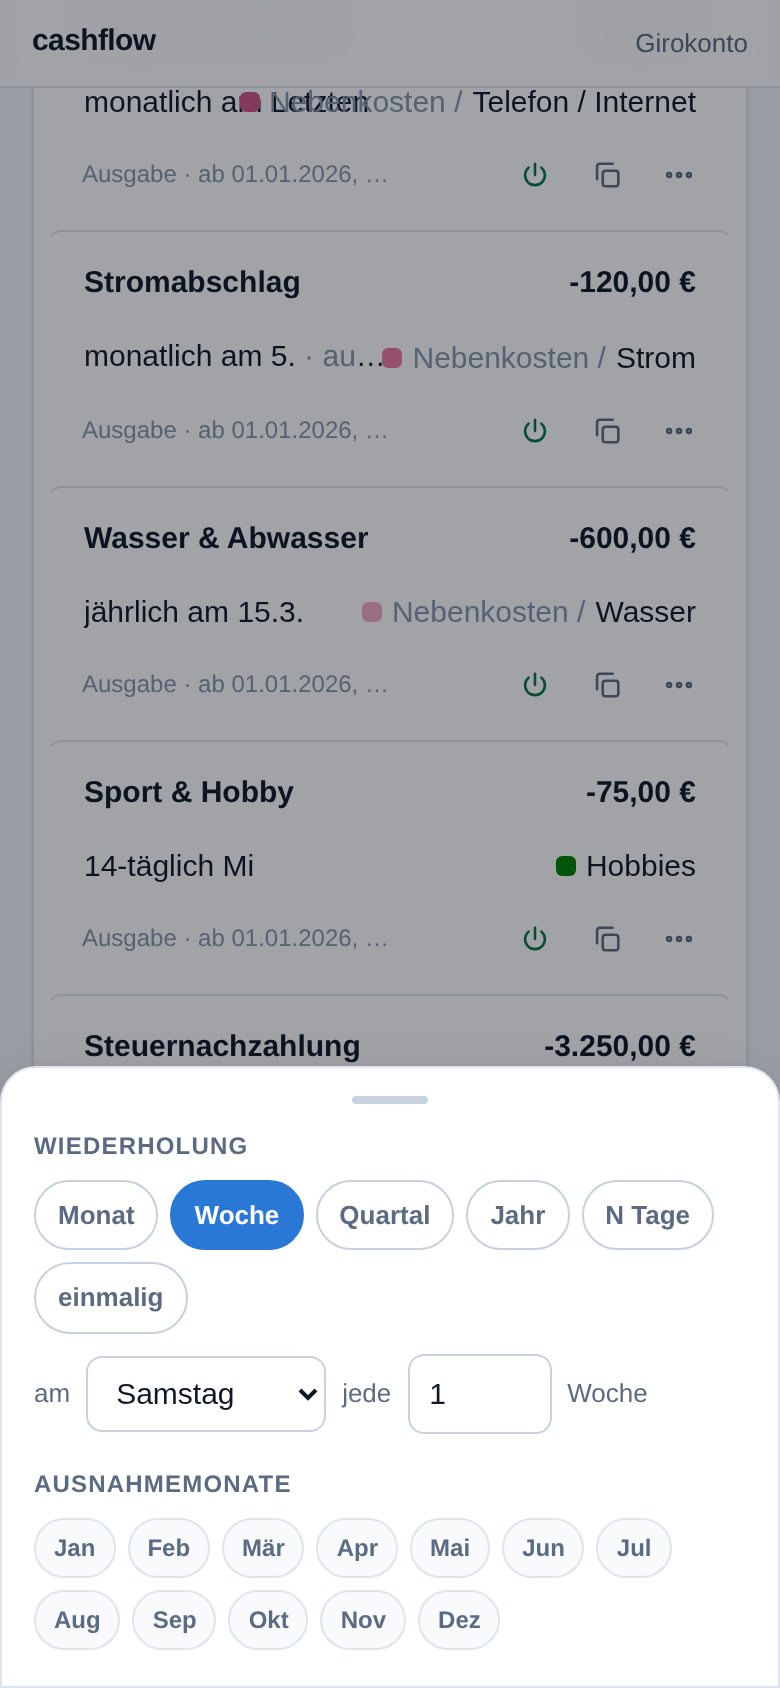
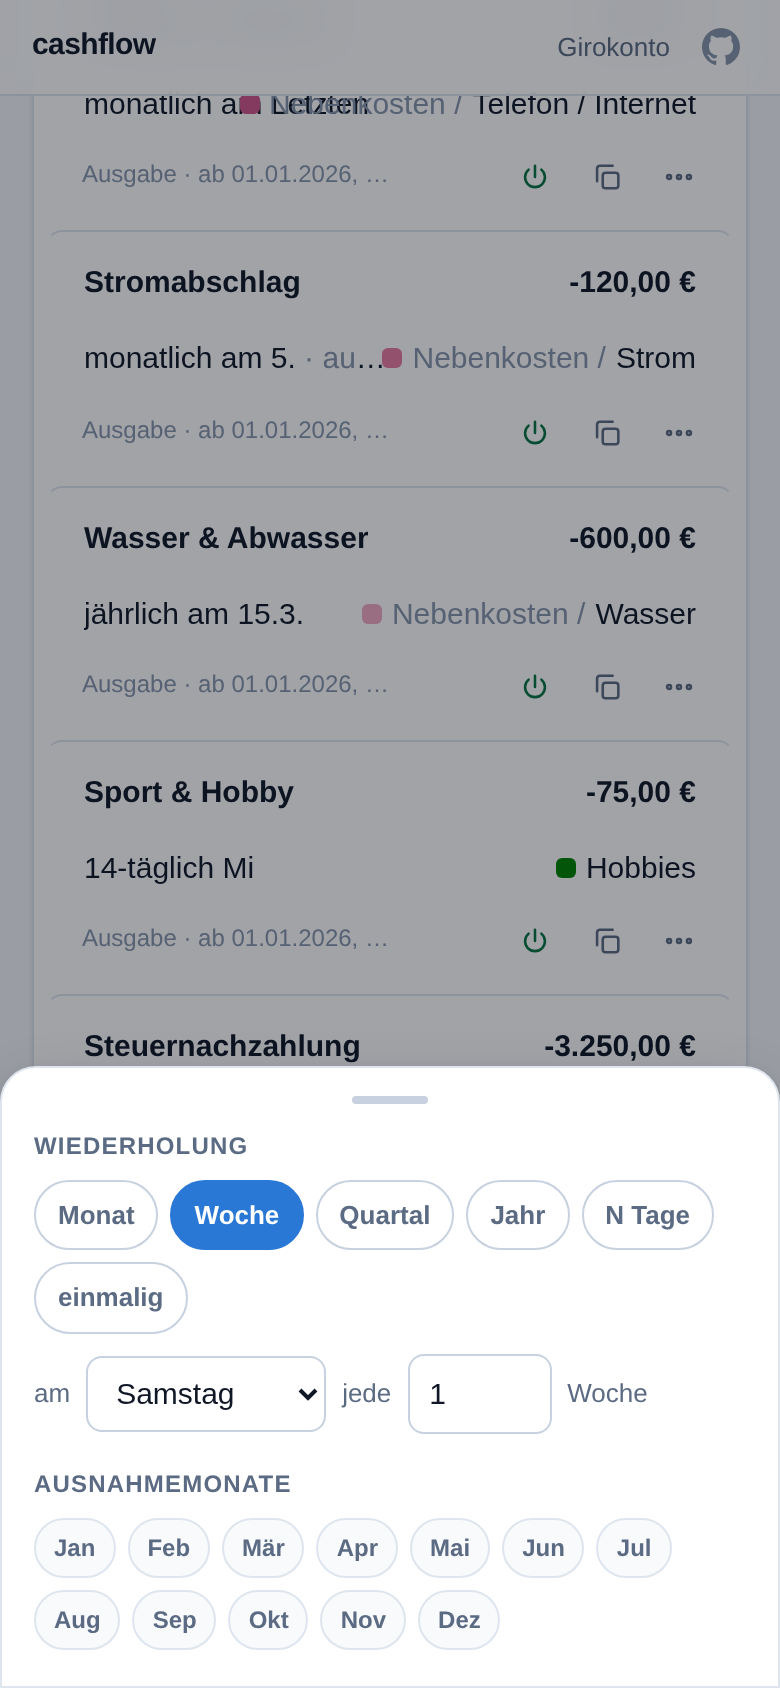
Dezenter Verweis auf den Quelltext
In der Seitenleiste unter den Kontodaten, mobil als Symbol in der
Kopfzeile — auf allen Routen erreichbar, ohne sich in den Vordergrund zu
draengen.

Im Desktop musste die Regel auf `.sidebar a.repo-link` gehoben werden:
`.sidebar a svg` ist spezifischer als `.repo-link svg`, wodurch der
Verweis zunaechst wie ein Navigationspunkt aussah.

Bildschirmfotos neu erzeugt, da die Seitenleiste auf fast allen zu sehen
ist.

diff --git a/src/app/App.tsx b/src/app/App.tsx
@@ -3,7 +3,7 @@ import { NavLink, Navigate, Route, Routes } from 'react-router-dom';
 
 import { useStore } from './state/StateProvider.tsx';
 import { money } from './format.ts';
-import { IconChart, IconList, IconTags, IconWallet } from './components/Icons.tsx';
+import { IconChart, IconGitHub, IconList, IconTags, IconWallet } from './components/Icons.tsx';
 import WelcomeDialog from './components/WelcomeDialog.tsx';
 
 import ForecastPage from './pages/ForecastPage.tsx';
@@ -13,6 +13,9 @@ import AccountPage from './pages/AccountPage.tsx';
 
 /** Hash-Routen: #/verlauf, #/buchungen, #/kategorien, #/konto */
 interface NavItem { to: string; label: string; Icon: ComponentType<SVGProps<SVGSVGElement>>; }
+
+/** Quelltext — bewusst dezent, aber auf beiden Größen erreichbar. */
+const REPO_URL = 'https://github.com/jb-io/webapp.cashflow';
 
 const NAV: NavItem[] = [
   { to: '/verlauf', label: 'Verlauf', Icon: IconChart },
@@ -36,6 +39,9 @@ export default function App() {
         <div className="sidebar-foot">
           <div className="tiny muted truncate">{doc.account.name}</div>
           <div className="small num">Start {money(doc.account.startBalance)}</div>
+          <a className="repo-link" href={REPO_URL} target="_blank" rel="noreferrer">
+            <IconGitHub /> Quelltext auf GitHub
+          </a>
         </div>
       </nav>
 
@@ -44,6 +50,10 @@ export default function App() {
           <span className="brand">cashflow</span>
           <span className="spacer" />
           <span className="small muted num truncate">{doc.account.name}</span>
+          <a className="repo-link icon-only" href={REPO_URL} target="_blank" rel="noreferrer"
+            title="Quelltext auf GitHub" aria-label="Quelltext auf GitHub">
+            <IconGitHub />
+          </a>
         </header>
 
         <Routes>

diff --git a/src/app/styles.css b/src/app/styles.css
@@ -156,6 +156,11 @@ p { margin: 0; }
   .sidebar a.active { background: var(--accent-soft); color: var(--accent); }
   .sidebar a svg { width: 19px; height: 19px; flex: none; }
   .sidebar .sidebar-foot { margin-top: auto; padding: 10px; }
+  /* Der Quelltext-Verweis ist kein Navigationspunkt und soll auch nicht so
+     aussehen — `.sidebar a svg` wäre sonst spezifischer als `.repo-link svg`. */
+  .sidebar a.repo-link { padding: 0; gap: 7px; font-size: 12px; font-weight: 450; }
+  .sidebar a.repo-link:hover { background: none; color: var(--accent); }
+  .sidebar a.repo-link svg { width: 14px; height: 14px; }
 
   .topbar { display: none; }
   .tabbar { display: none; }
@@ -163,6 +168,17 @@ p { margin: 0; }
   .main { flex: 1; min-width: 0; display: flex; flex-direction: column; }
   .content { padding: 26px 30px 40px; gap: 20px; max-width: 1240px; width: 100%; }
 }
+
+/* Verweis auf den Quelltext: zurückhaltend, erst beim Überfahren deutlich. */
+.repo-link {
+  display: inline-flex; align-items: center; gap: 7px;
+  margin-top: 10px; font-size: 12px; text-decoration: none;
+  color: var(--text-faint);
+}
+.repo-link:hover { color: var(--accent); }
+.repo-link svg { width: 15px; height: 15px; flex: none; }
+.repo-link.icon-only { margin-top: 0; padding: 4px; }
+.repo-link.icon-only svg { width: 19px; height: 19px; }
 
 .page-head { display: flex; align-items: flex-end; gap: 14px; flex-wrap: wrap; }
 .page-head .spacer { flex: 1; }

diff --git a/src/app/components/Icons.tsx b/src/app/components/Icons.tsx
@@ -36,6 +36,18 @@ export const IconWarn = (p: IconProps) => (
 );
 export const IconChevronLeft = (p: IconProps) => (<svg {...base} {...p}><path d="M14 6l-6 6 6 6" /></svg>);
 export const IconChevronRight = (p: IconProps) => (<svg {...base} {...p}><path d="M10 6l6 6-6 6" /></svg>);
+/** GitHub-Markenzeichen; anders als die übrigen Symbole eine Flächenform. */
+export const IconGitHub = (p: IconProps) => (
+  <svg viewBox="0 0 16 16" fill="currentColor" stroke="none" aria-hidden="true" {...p}>
+    <path d="M8 0C3.58 0 0 3.58 0 8c0 3.54 2.29 6.53 5.47 7.59.4.07.55-.17.55-.38
+      0-.19-.01-.82-.01-1.49-2.01.37-2.53-.49-2.69-.94-.09-.23-.48-.94-.82-1.13-.28-.15-.68-.52-.01-.53.63-.01
+      1.08.58 1.23.82.72 1.21 1.87.87 2.33.66.07-.52.28-.87.51-1.07-1.78-.2-3.64-.89-3.64-3.95
+      0-.87.31-1.59.82-2.15-.08-.2-.36-1.02.08-2.12 0 0 .67-.21 2.2.82a7.42 7.42 0 014 0c1.53-1.04
+      2.2-.82 2.2-.82.44 1.1.16 1.92.08 2.12.51.56.82 1.27.82 2.15 0 3.07-1.87 3.75-3.65
+      3.95.29.25.54.73.54 1.48 0 1.07-.01 1.93-.01 2.2 0 .21.15.46.55.38A8.01 8.01 0 0016 8c0-4.42-3.58-8-8-8z" />
+  </svg>
+);
+
 export const IconEmpty = (p: IconProps) => (
   <svg {...base} {...p}><rect x="3" y="5" width="18" height="15" rx="2.5" /><path d="M3 10h18M8 15h8" /></svg>
 );
